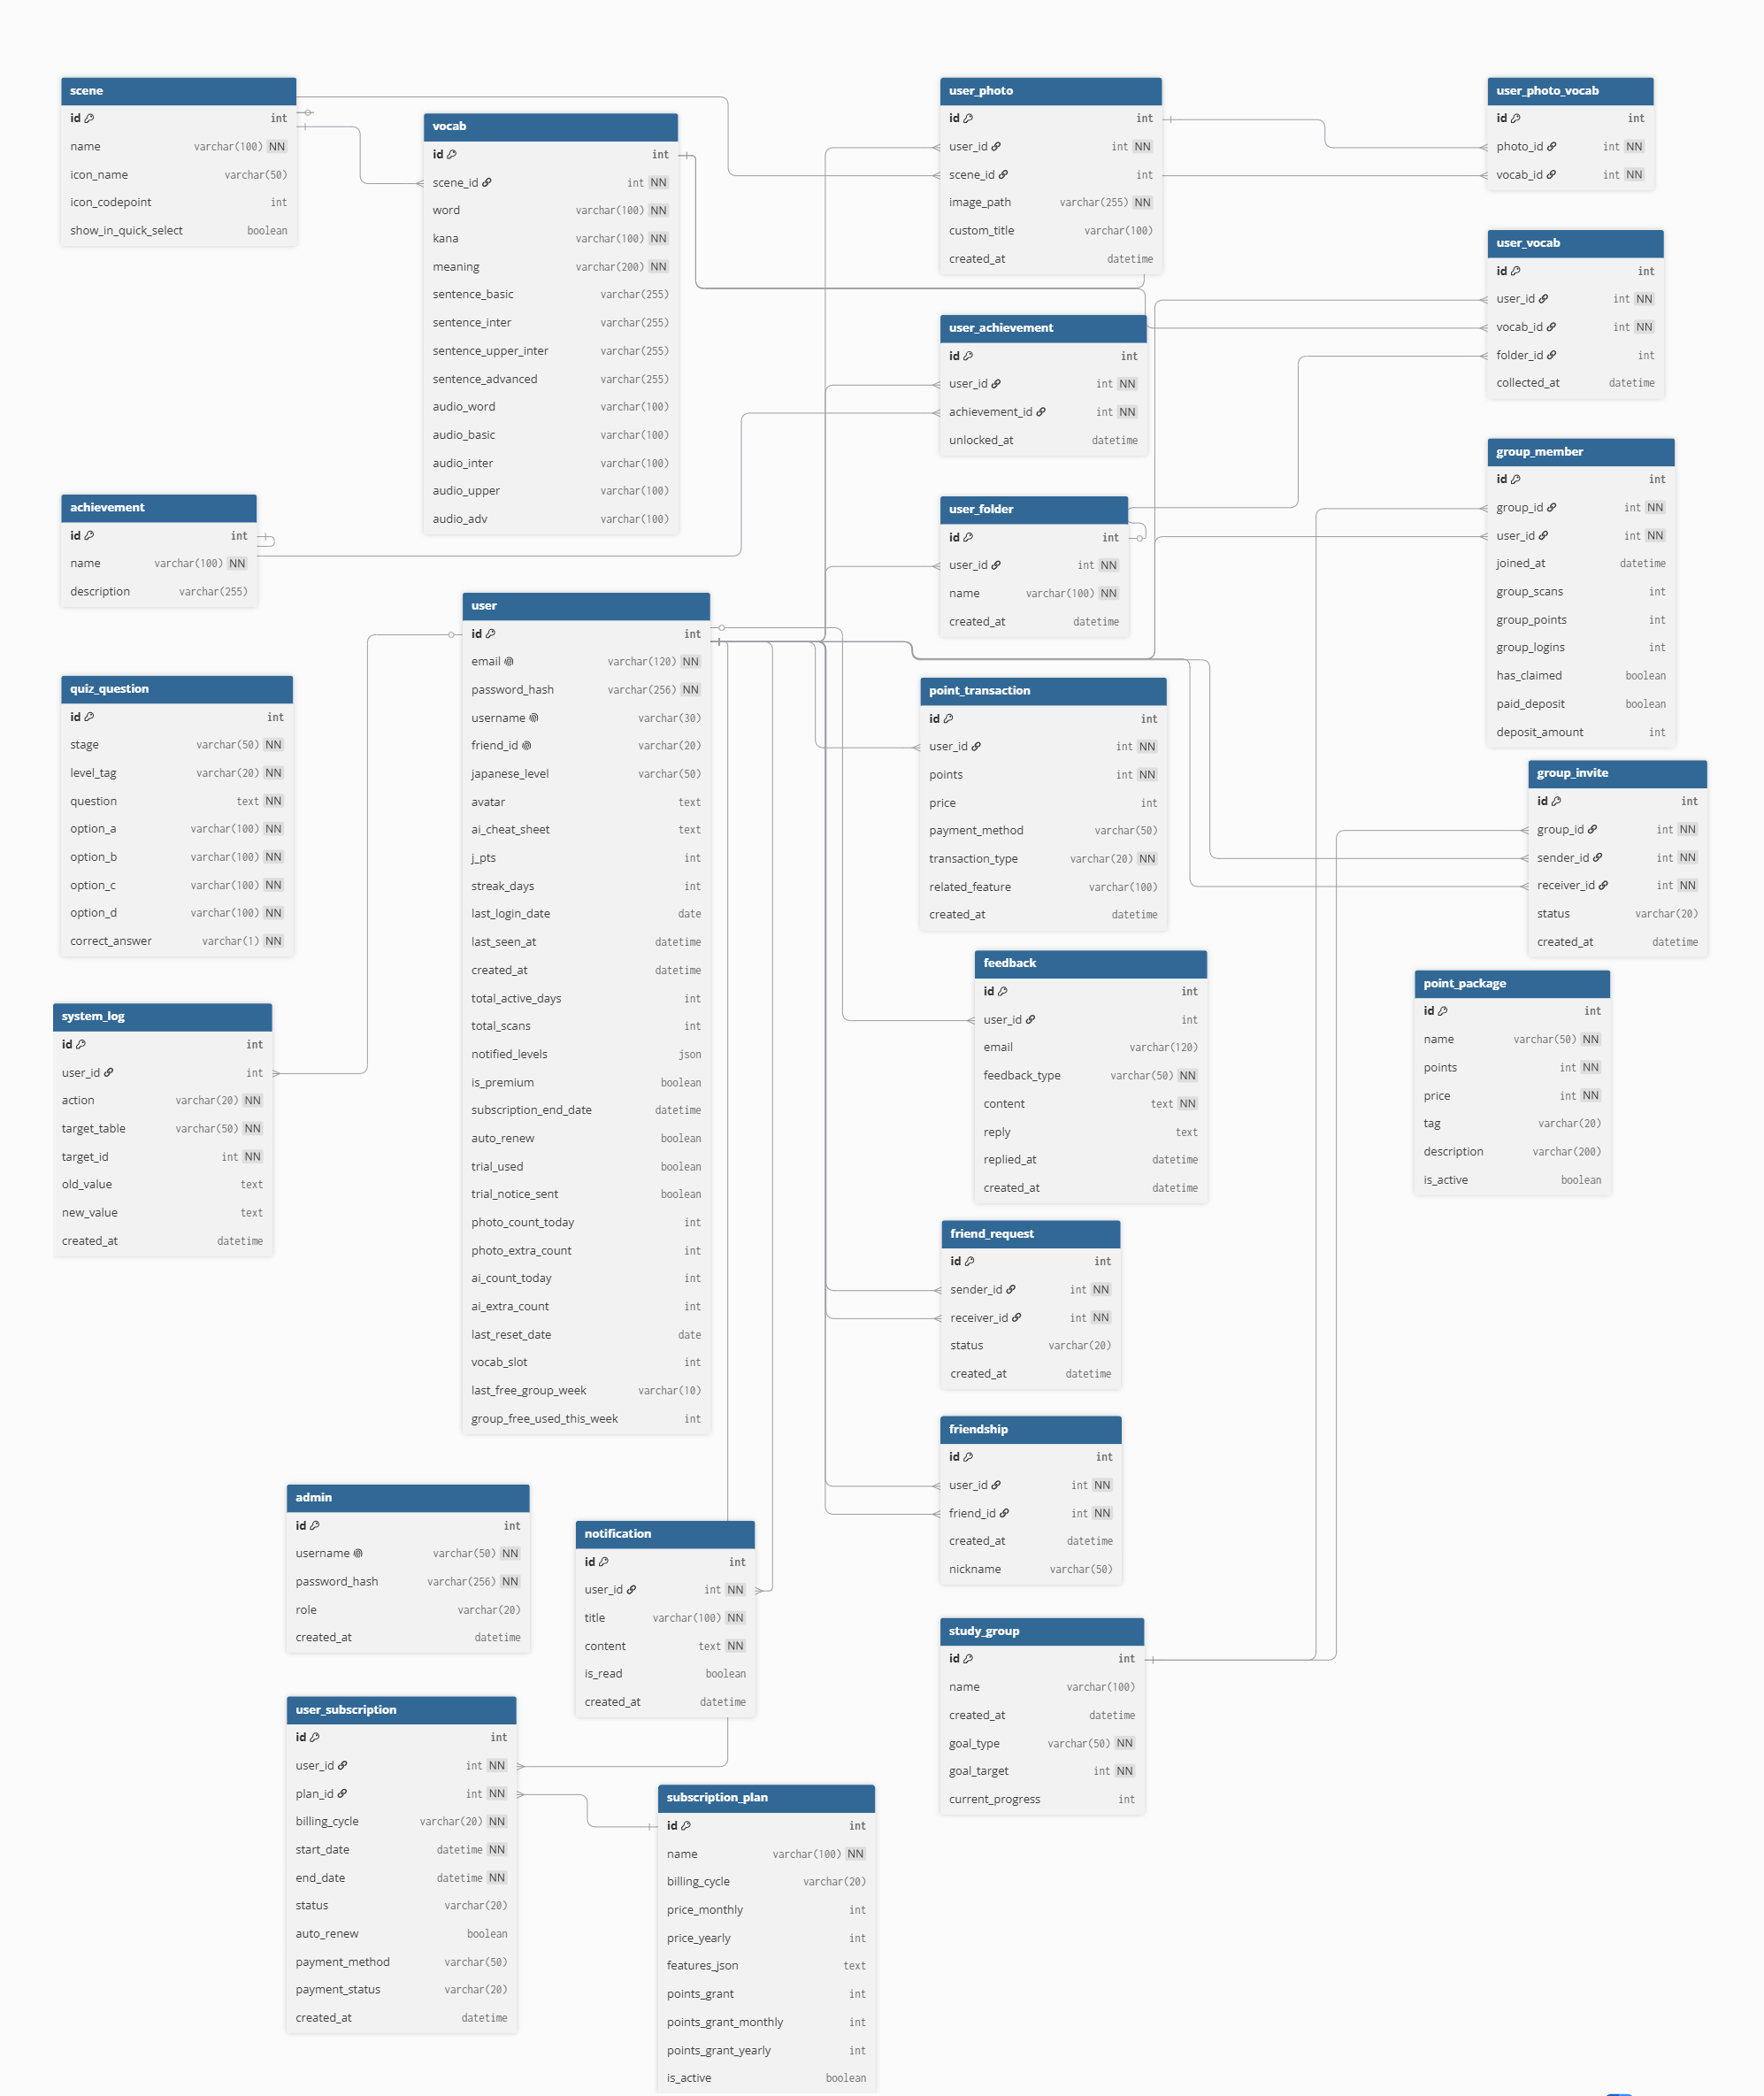
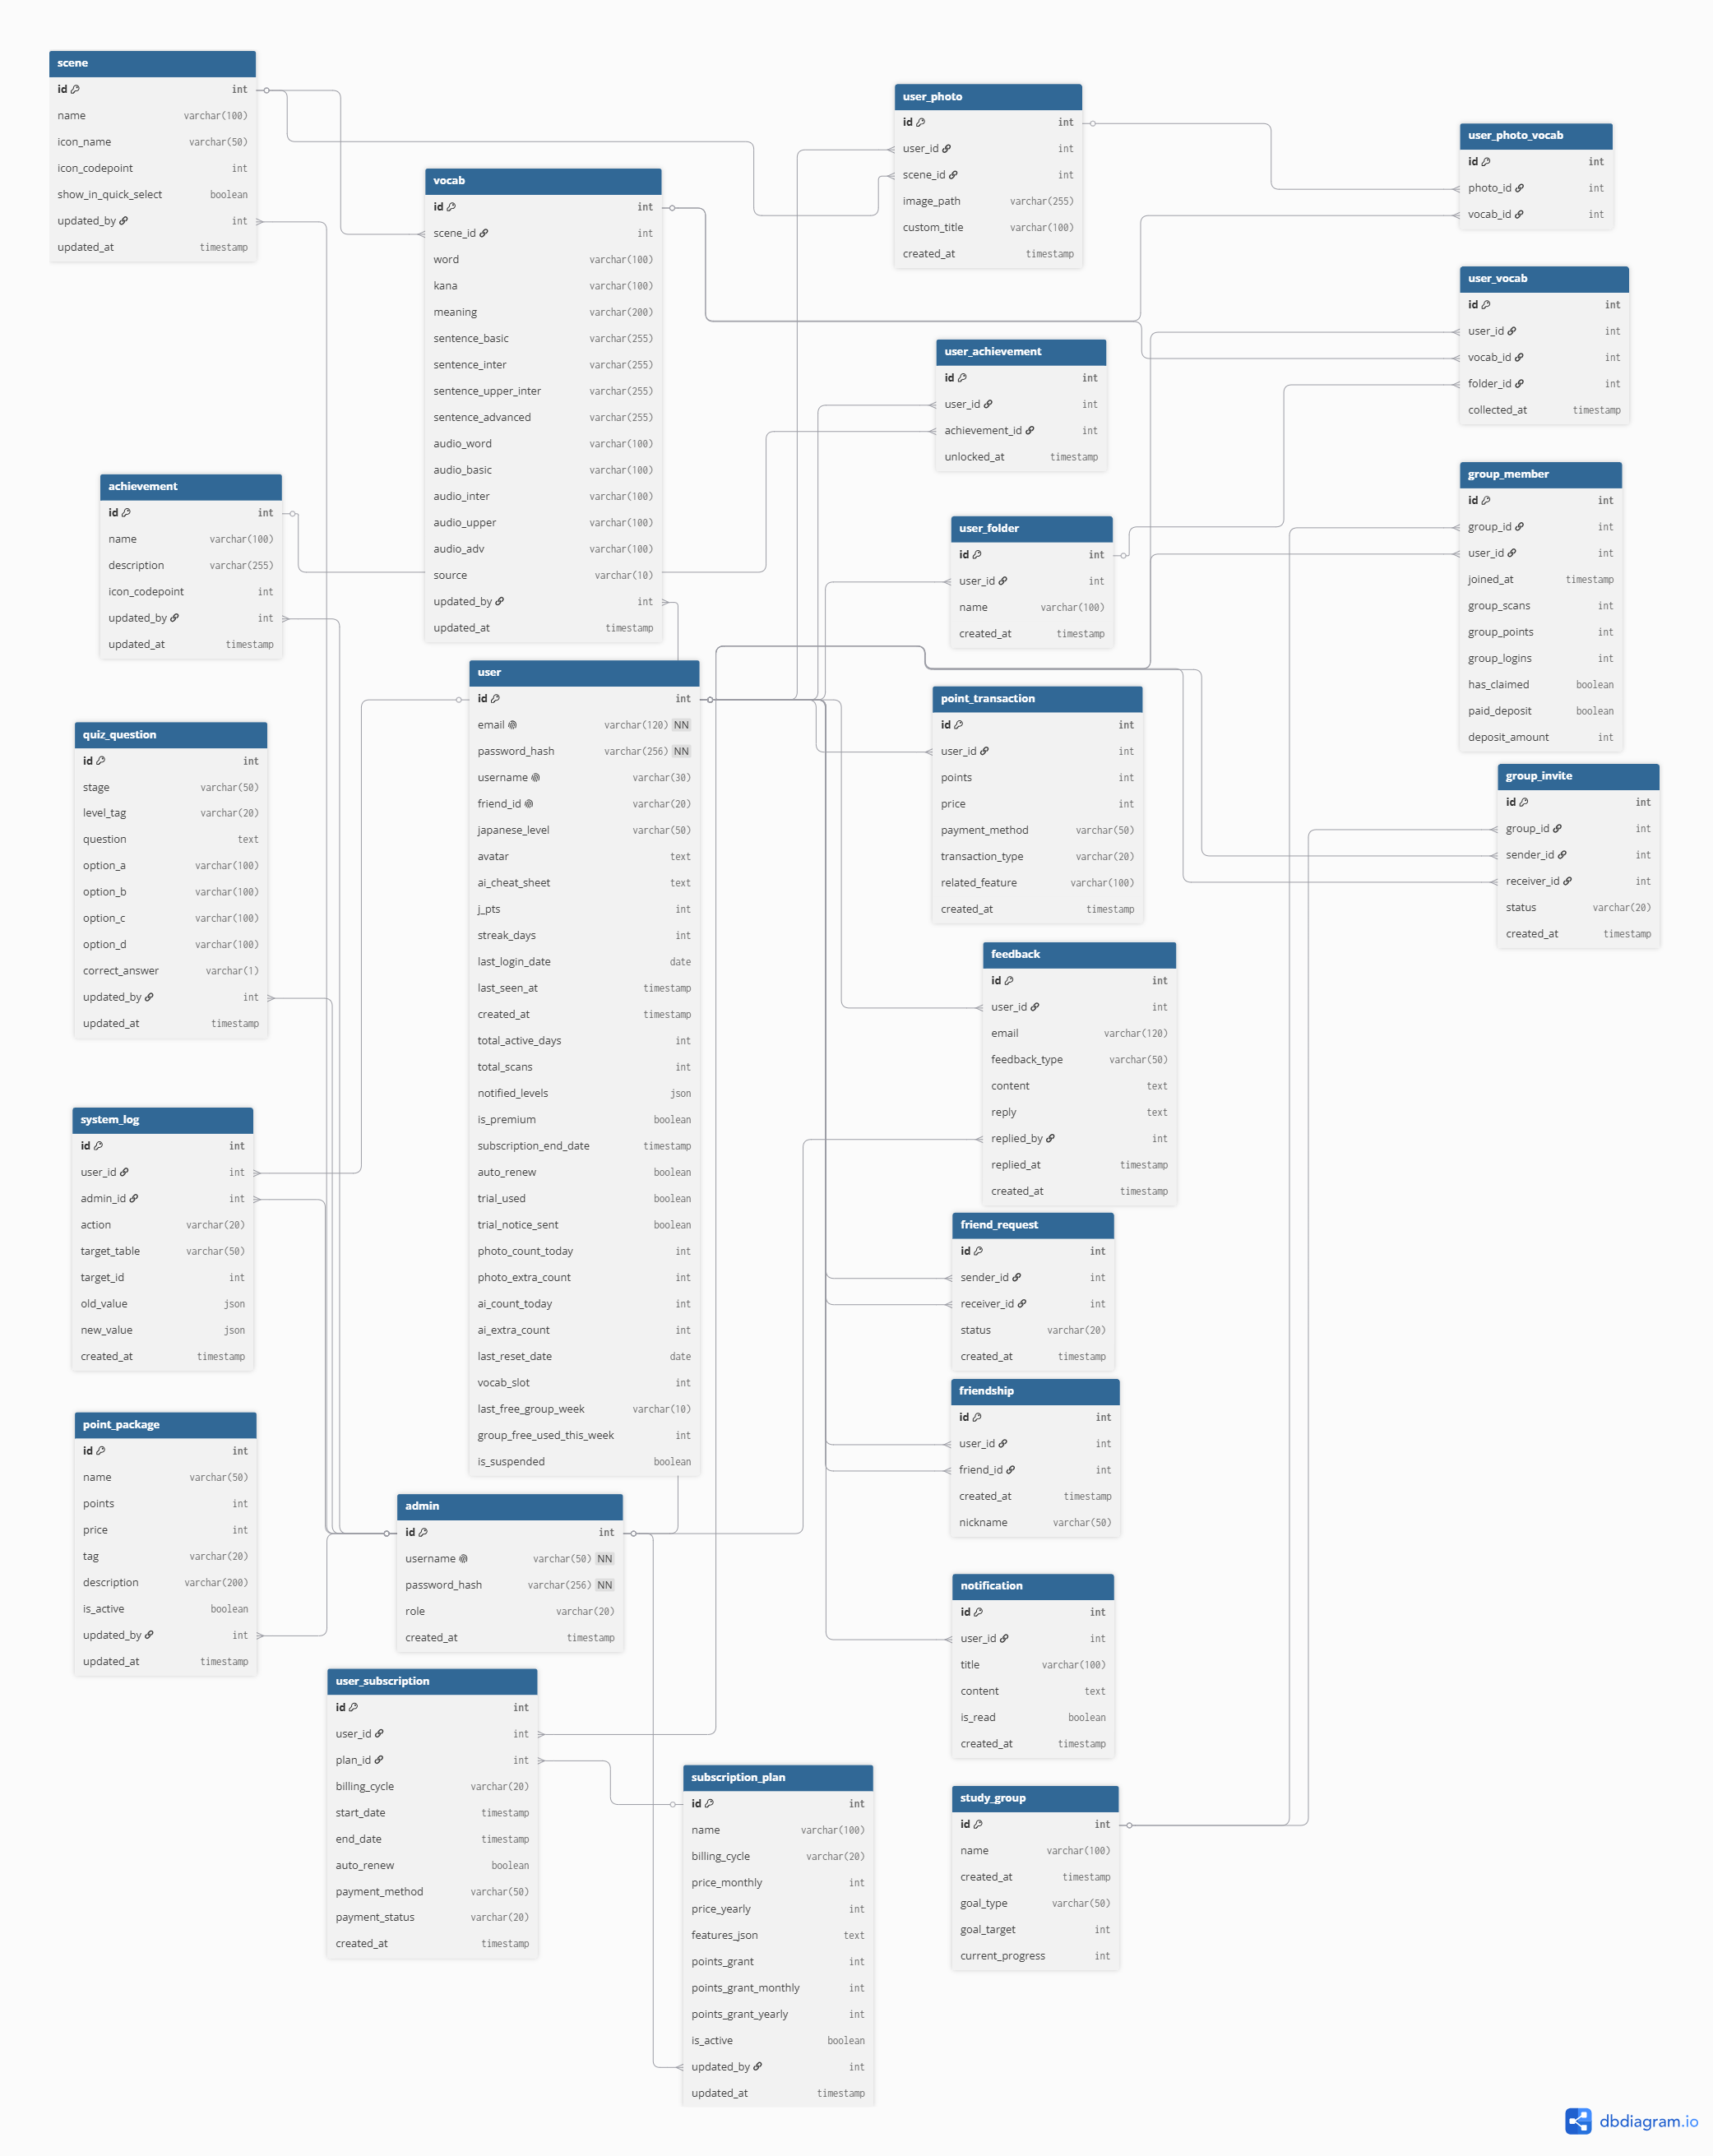
修改的

diff --git a/115502/backend/admin_app.py b/115502/backend/admin_app.py
@@ -86,6 +86,10 @@ def admin_root():
 # ==========================================
 # 🚪 3. 登入與登出系統
 # ==========================================
[email redacted]('/login-preview')
+def login_preview():
+    return render_template('admin_login_preview.html')
+
 @app.route('/login', methods=['GET', 'POST'])
 def admin_login():
     if request.method == 'POST':